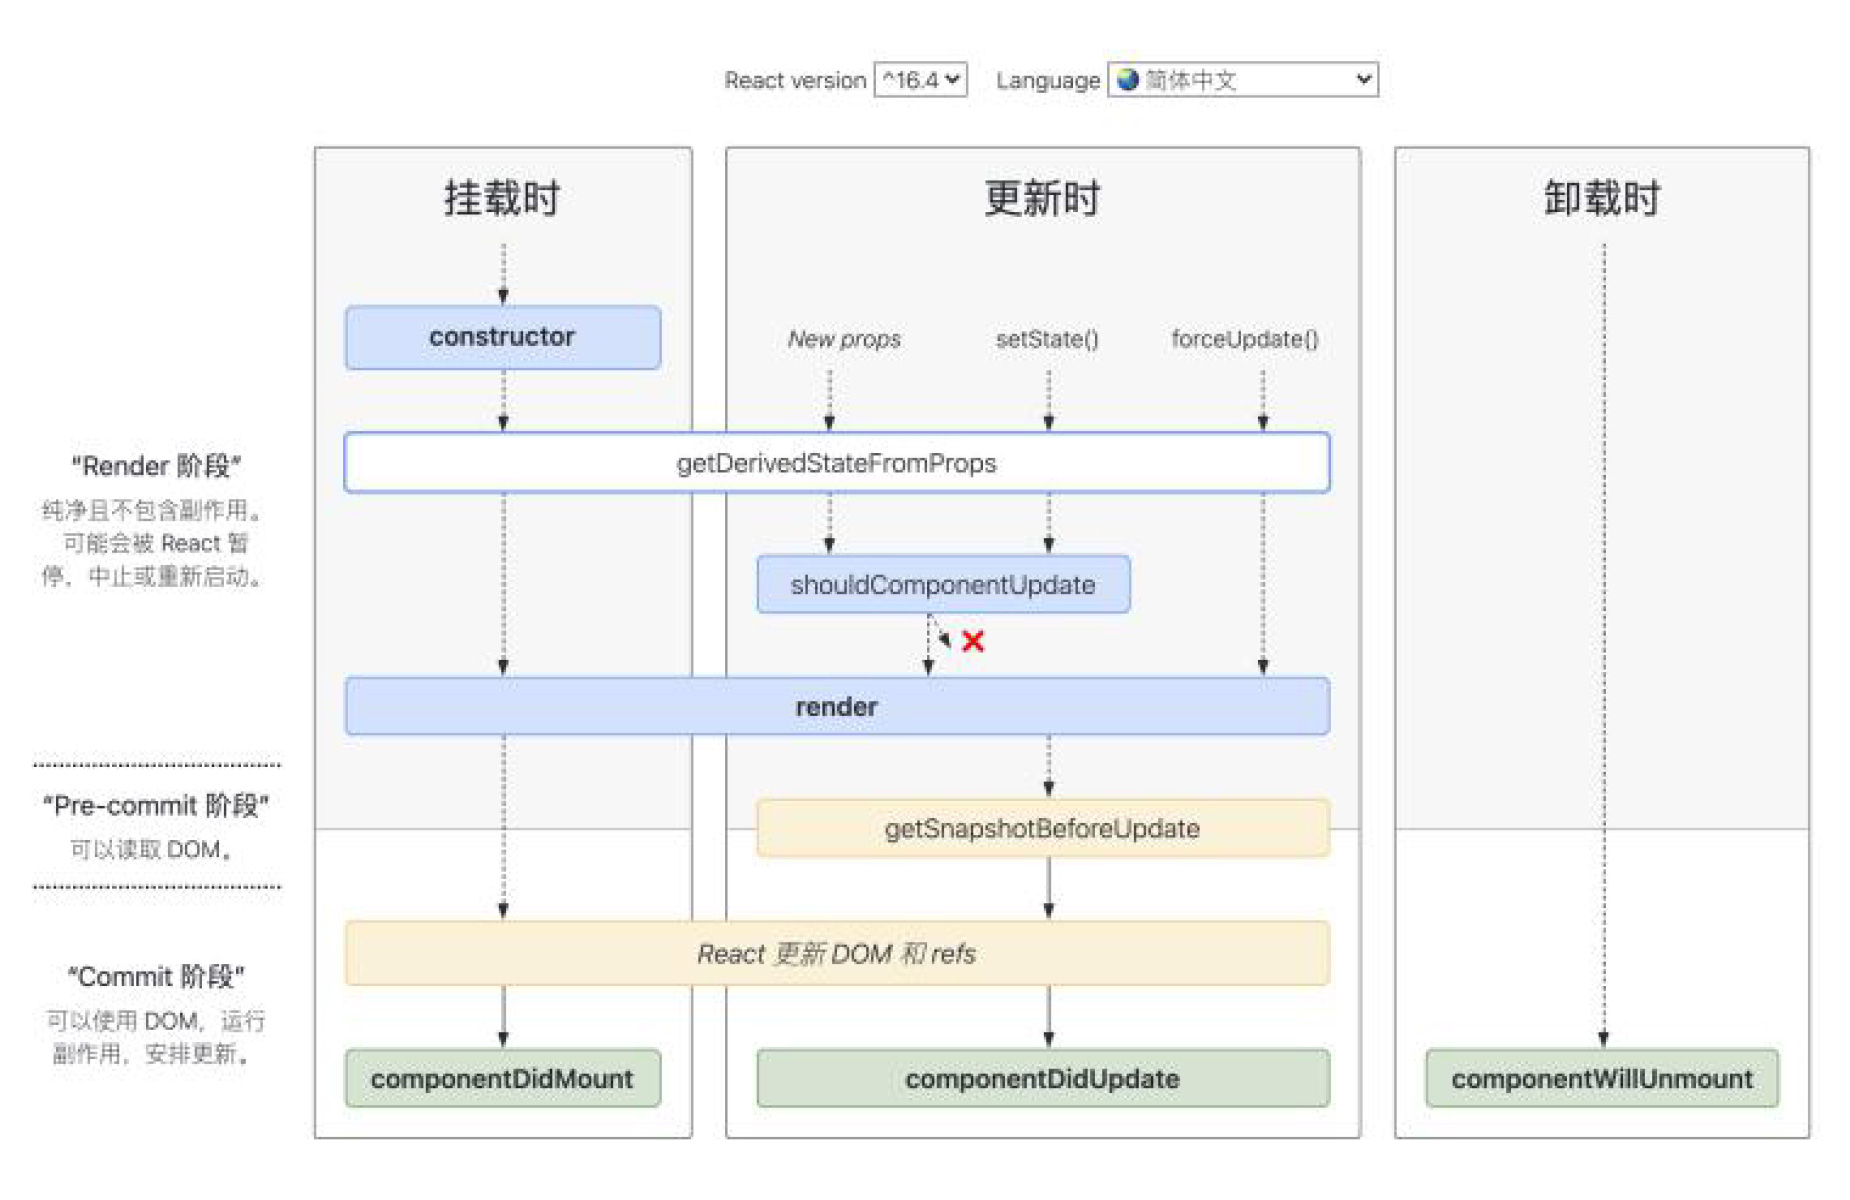
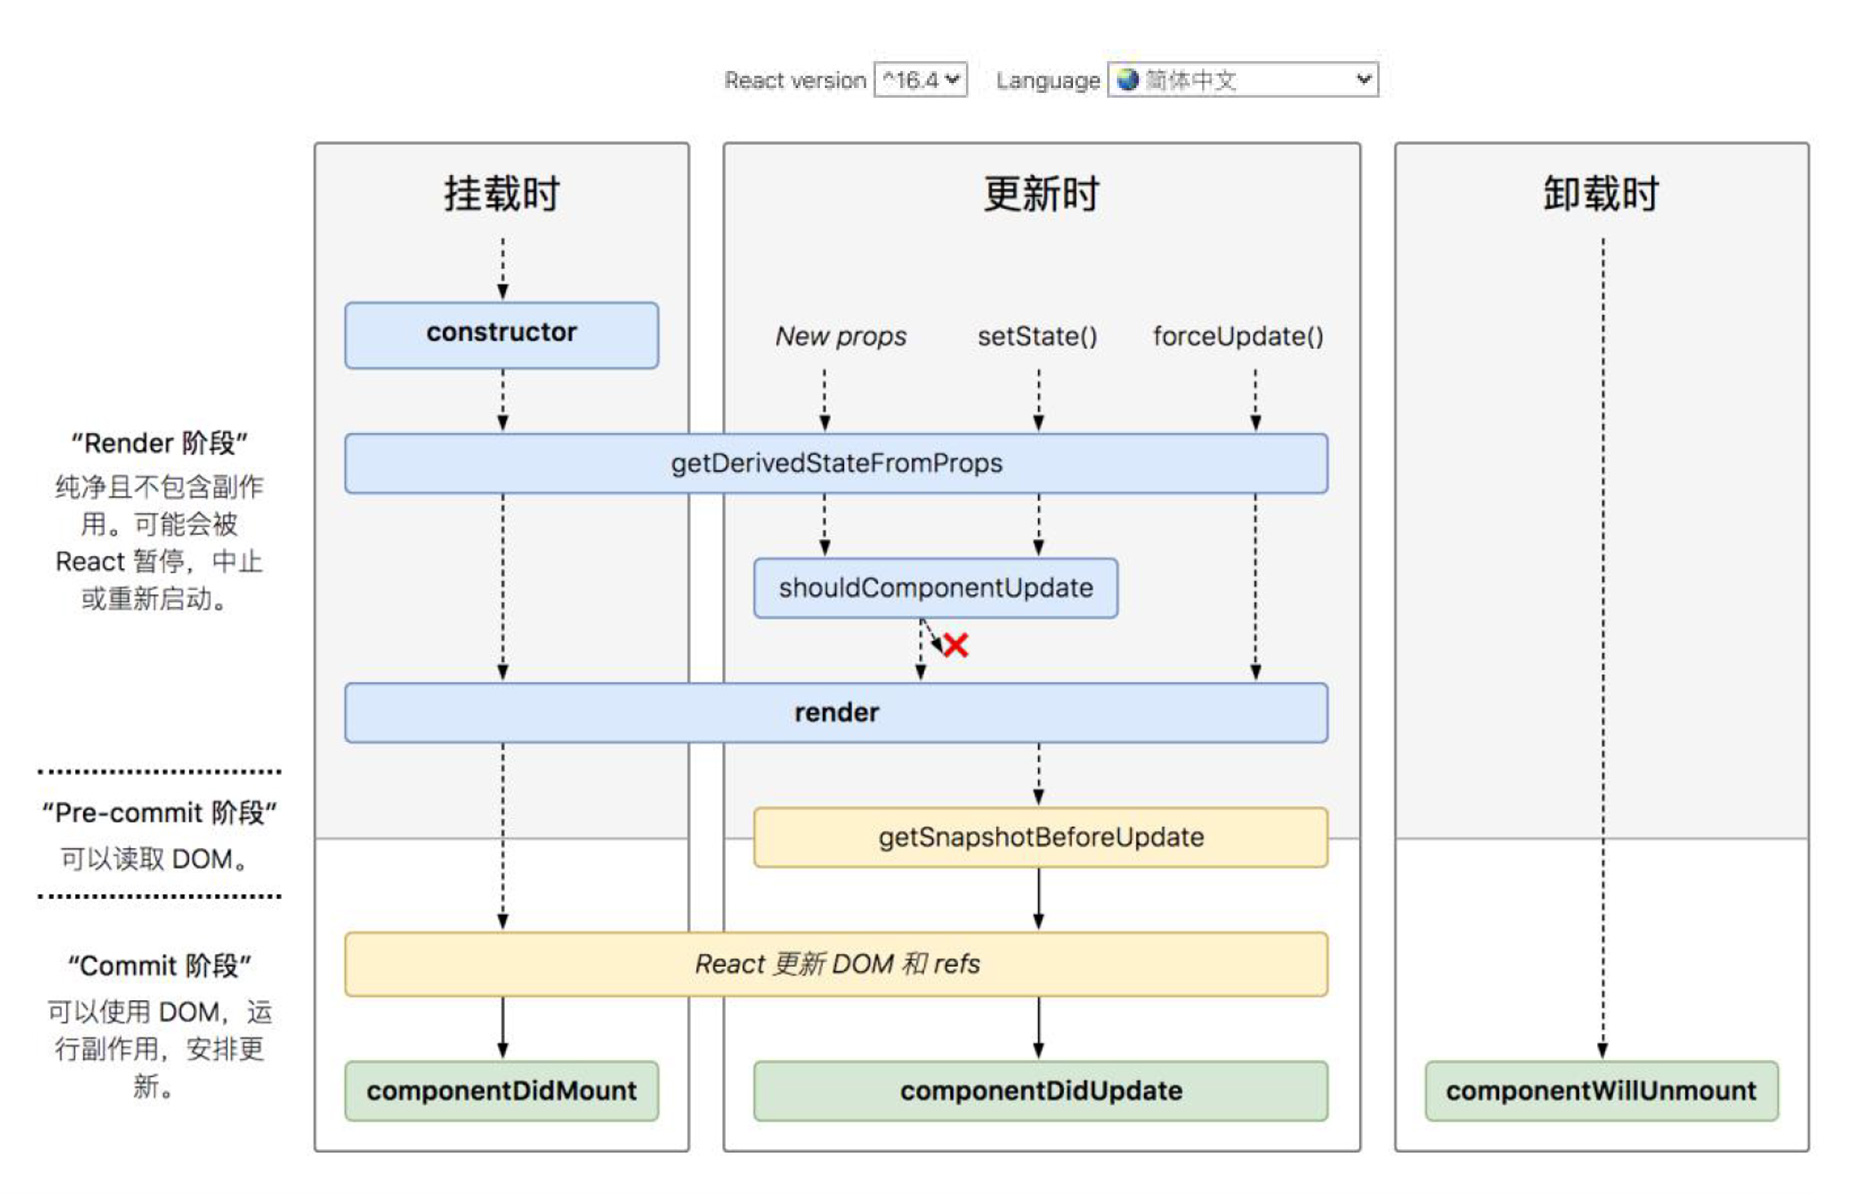
add React 16 中新生命周期有哪些

diff --git a/questions/React.md b/questions/React.md
@@ -262,3 +262,30 @@ static getDerivedStateFromProps(nextProps, prevState) {
     return null;
 }
 ```
+
+### 14. React 16 中新生命周期有哪些
+关于 React16 开始应用的新生命周期：
+![React 的生命周期](../assets/images/React-%E7%9A%84%E7%94%9F%E5%91%BD%E5%91%A8%E6%9C%9F.jpg)
+
+可以看出，React16 自上而下地对生命周期做了另一种维度的解读：
+Render 阶段：用于计算一些必要的状态信息。这个阶段可能会被 React 暂停，这一点和 React16 引入的 Fiber 架构（我们后面会重点讲解）是有关的；
+Pre-commit 阶段：所谓“commit”，这里指的是“更新真正的 DOM 节点”这个动作。所谓 Pre-commit，就是说我在这个阶段其实还并没有去更新真实的 DOM，不过 DOM 信息已经是可以读取的了；
+Commit 阶段：在这一步，React 会完成真实 DOM 的更新工作。Commit 阶段，我们可以拿到真实 DOM（包括 refs）。
+与此同时，新的生命周期在流程方面，仍然遵循“挂载”、“更新”、“卸载”这三个广义的划分方式。它们分别对应到：
+
+挂载过程：
+constructor
+getDerivedStateFromProps
+render
+componentDidMount
+
+更新过程：
+getDerivedStateFromProps
+shouldComponentUpdate
+render
+getSnapshotBeforeUpdate
+componentDidUpdate
+
+卸载过程：
+componentWillUnmount
+
